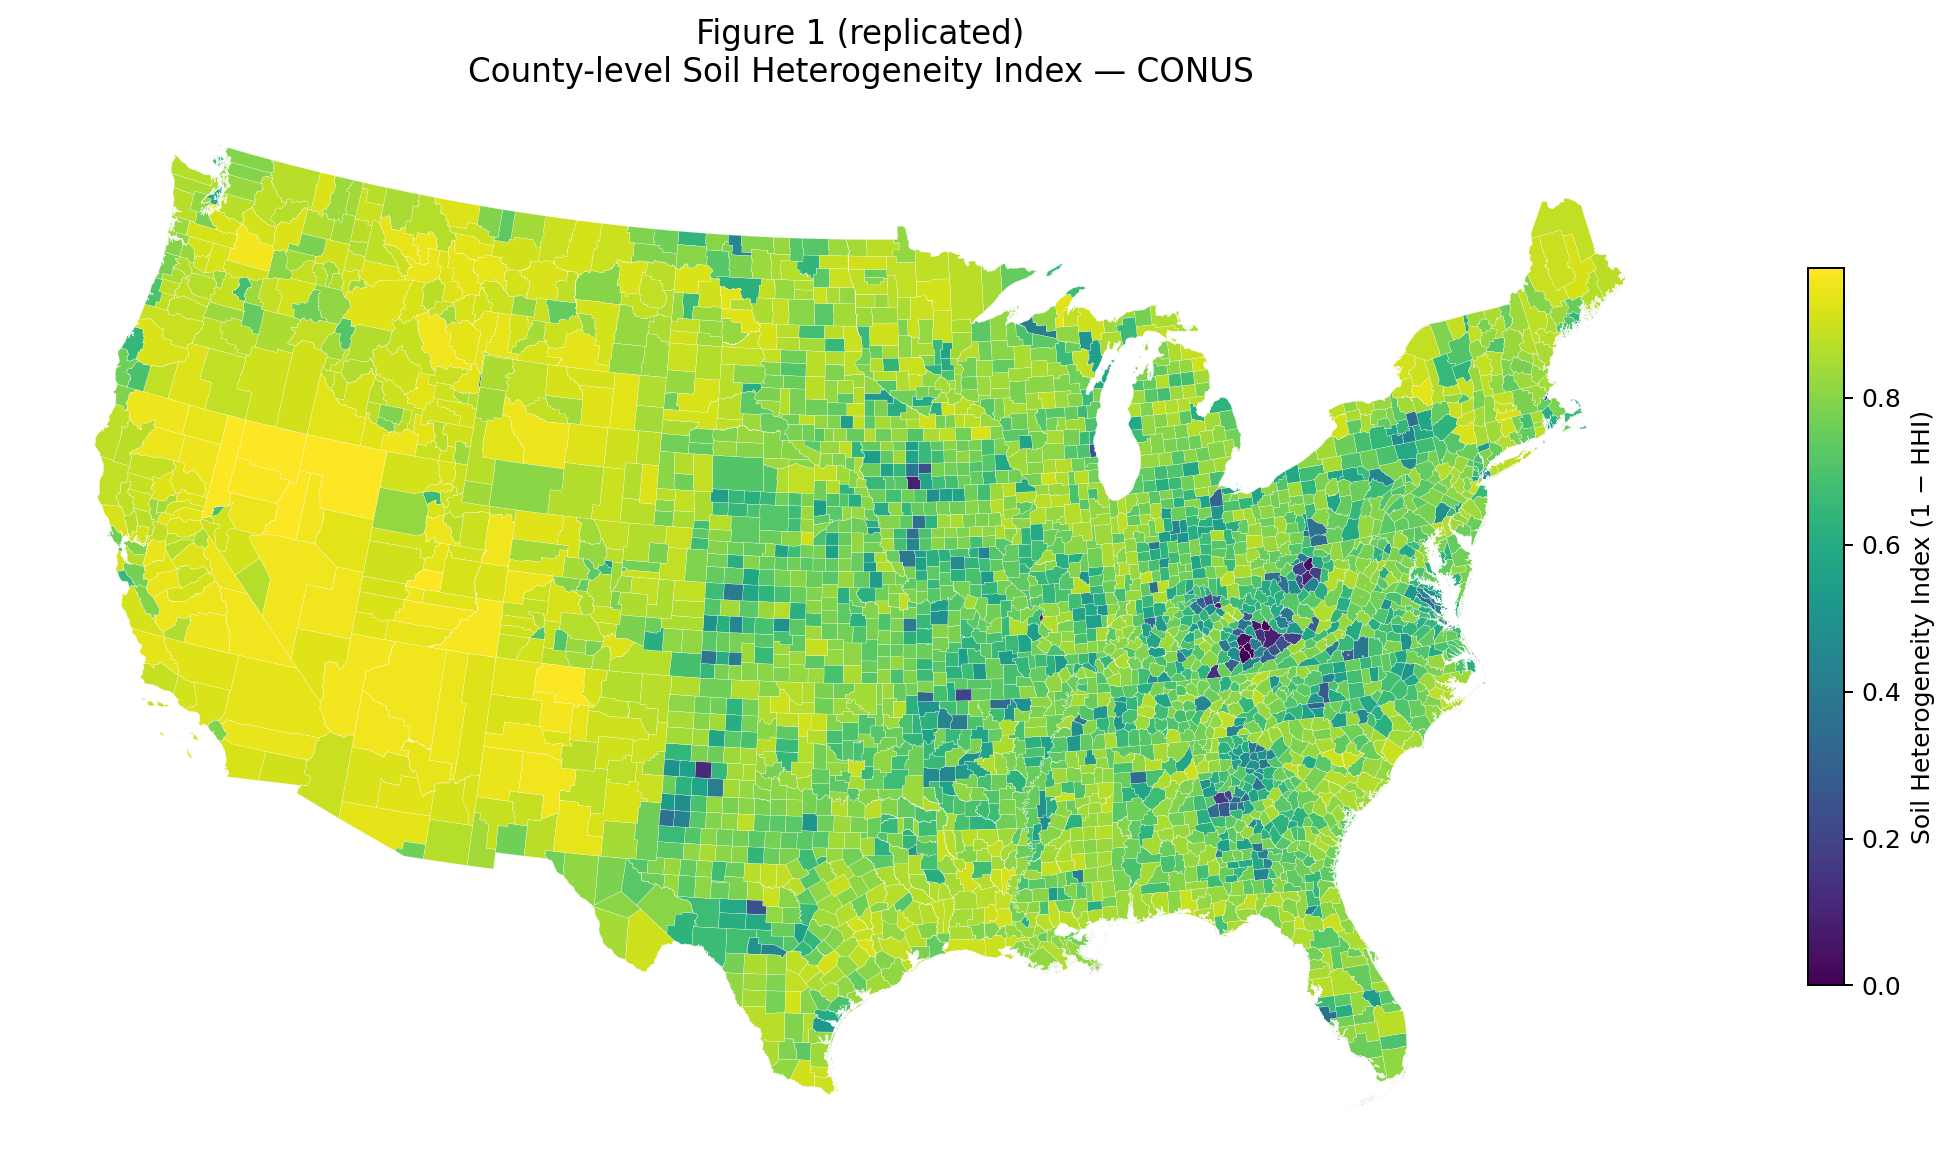
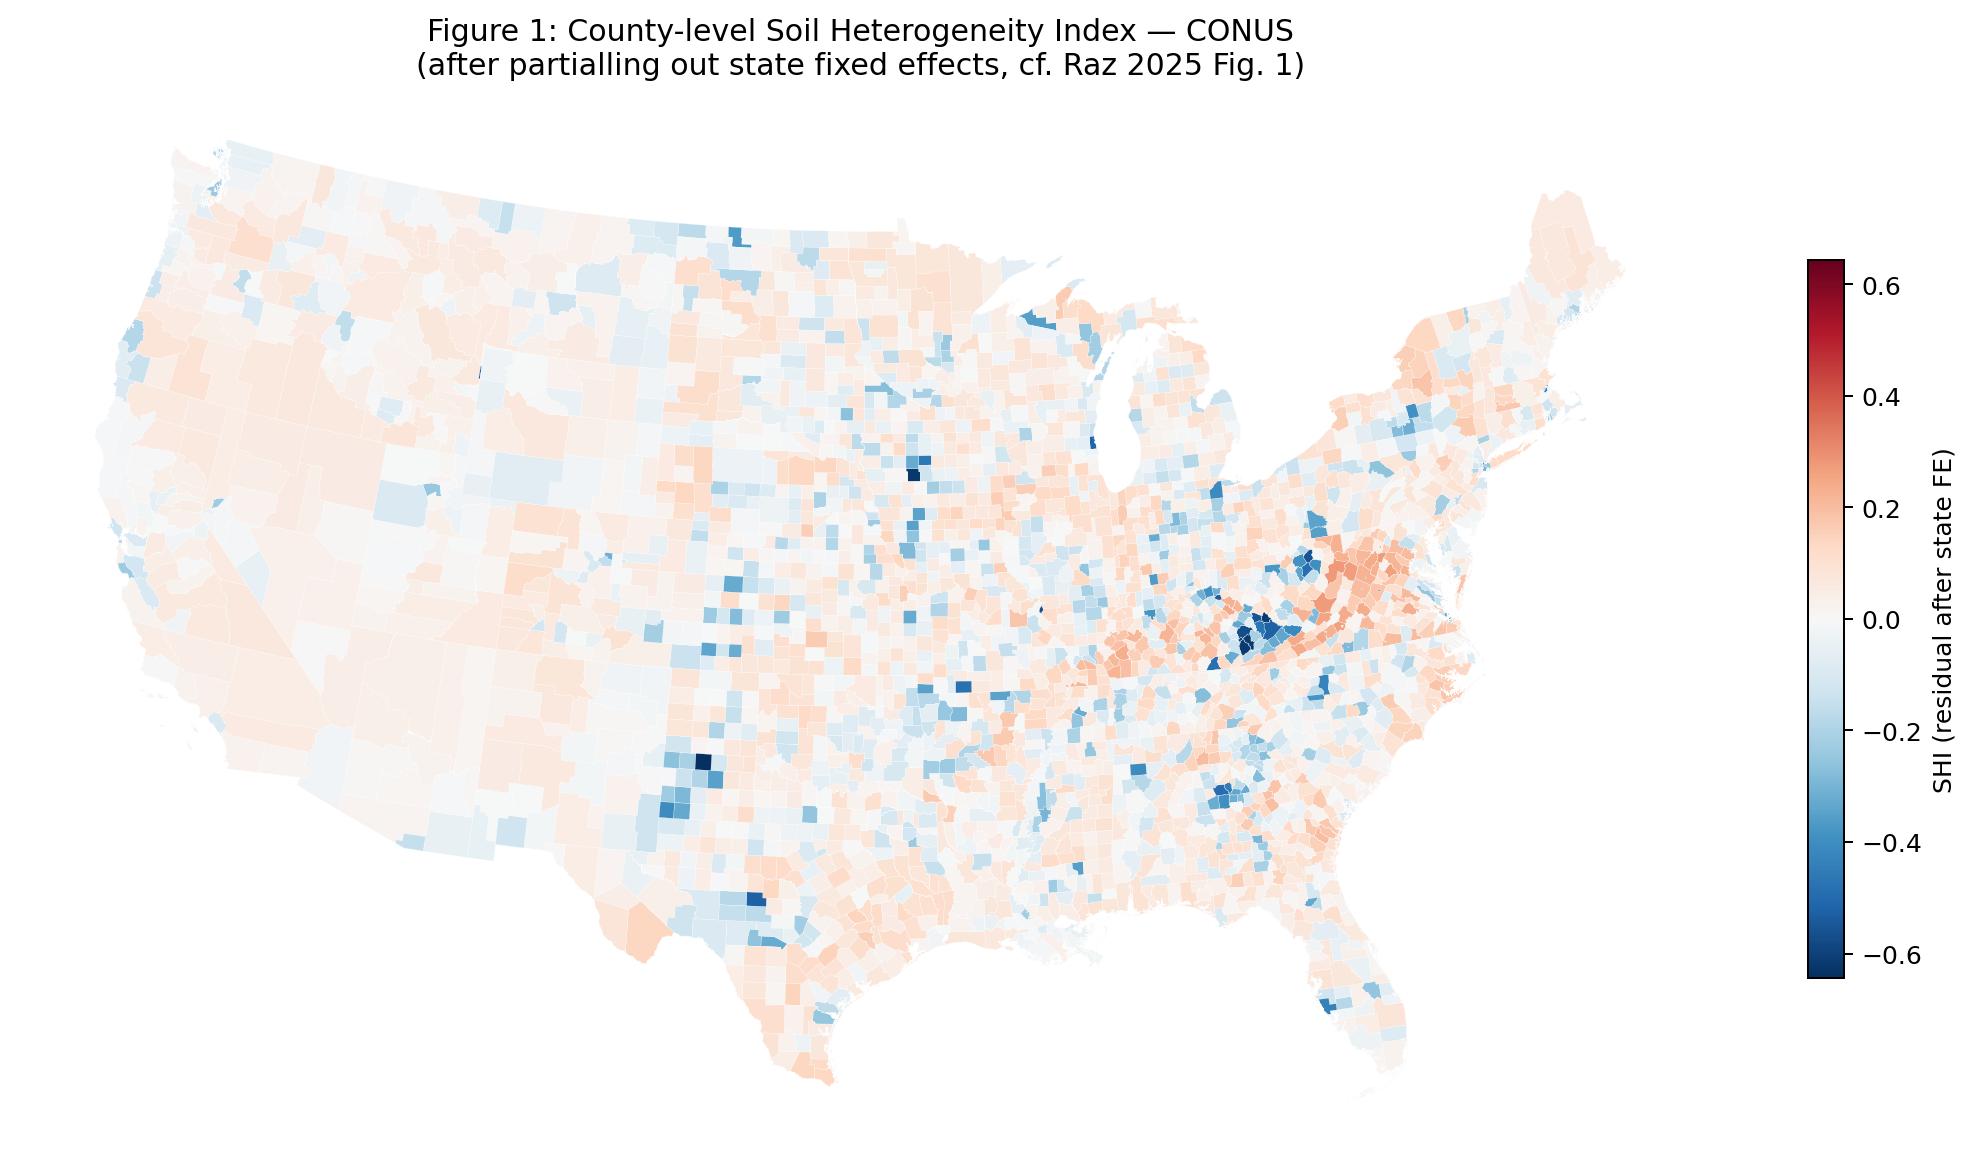
Address Jiayi's review: residualize Fig 1 on state FE, use exact Table 2 values
- Figure 1 now plots SHI residualised on state fixed effects to match the
  paper's main Figure 1 (Raz 2025, p.8, fn.5). The raw SHI map is kept as
  figureA1_shi_raw_map.png (paper Appendix Figure A.1 analog).
- README Table 2 comparison now uses the exact coefficients and standard
  errors from Raz (2025) Table 2 (p.39), not the rounded text values.

diff --git a/analysis/04_figures.py b/analysis/04_figures.py
@@ -1,6 +1,8 @@
 """Figures 1, 2, 3 for Raz (2025) replication.
 
-Figure 1: County-level SHI map (CONUS).
+Figure 1: County-level SHI map after partialling out state fixed effects
+          (matches paper main Figure 1, p.8). Raw SHI is also saved as
+          figureA1_shi_raw_map.png (matches paper Appendix Figure A.1).
 Figure 2: County-level LNI map 1940 (requires IPUMS-derived LNI column).
 Figure 3: DiD event study β_b (requires linked MigrantsNative_2.csv).
 
@@ -21,9 +23,17 @@ from _common import FIGS, load_panel
 def fig1_shi_map() -> None:
     import geopandas as gpd
     panel = load_panel()
-    shi = panel[["gisjoin", "shi"]].drop_duplicates("gisjoin")
+    shi = (
+        panel[["gisjoin", "state", "shi"]]
+        .drop_duplicates("gisjoin")
+        .dropna(subset=["shi", "state"])
+    )
 
-    # Look for the county parquet cache one directory up from delivery
+    # Residualise SHI on state fixed effects to match paper's main Figure 1
+    # (p.8, fn.5: the underlying soil surveys tend to vary by state).
+    state_means = shi.groupby("state")["shi"].transform("mean")
+    shi["shi_resid"] = shi["shi"] - state_means
+
     cand = [
         Path(
             "/Users/ab180/Desktop/Coursework/Semester2/BZD6004/Group/final/"
@@ -39,19 +49,46 @@ def fig1_shi_map() -> None:
     gdf = county.merge(shi, left_on="GISJOIN", right_on="gisjoin", how="left")
     gdf = gdf.cx[-2.5e6:2.5e6, -2e6:3.5e6]
 
+    vmax = float(np.nanmax(np.abs(gdf["shi_resid"].to_numpy())))
     fig, ax = plt.subplots(figsize=(12, 7))
     gdf.plot(
-        column="shi", cmap="viridis", linewidth=0.1,
-        edgecolor="white", legend=True,
-        legend_kwds={"label": "Soil Heterogeneity Index (1 − HHI)", "shrink": 0.6},
+        column="shi_resid", cmap="RdBu_r", vmin=-vmax, vmax=vmax,
+        linewidth=0.1, edgecolor="white", legend=True,
+        legend_kwds={
+            "label": "SHI (residual after state FE)",
+            "shrink": 0.6,
+        },
         ax=ax, missing_kwds={"color": "#eeeeee"},
     )
-    ax.set_title("Figure 1: County-level Soil Heterogeneity Index — CONUS", fontsize=13)
+    ax.set_title(
+        "Figure 1: County-level Soil Heterogeneity Index — CONUS\n"
+        "(after partialling out state fixed effects, cf. Raz 2025 Fig. 1)",
+        fontsize=12,
+    )
     ax.set_axis_off()
     fig.tight_layout()
     fig.savefig(FIGS / "figure1_shi_map.png", dpi=180, bbox_inches="tight")
     plt.close(fig)
-    print("  saved figure1_shi_map.png")
+    print("  saved figure1_shi_map.png (residualized)")
+
+    # Also save the raw SHI as the analog of paper Appendix Figure A.1.
+    fig, ax = plt.subplots(figsize=(12, 7))
+    gdf.plot(
+        column="shi", cmap="viridis", linewidth=0.1,
+        edgecolor="white", legend=True,
+        legend_kwds={"label": "Soil Heterogeneity Index (raw, 1 − HHI)",
+                     "shrink": 0.6},
+        ax=ax, missing_kwds={"color": "#eeeeee"},
+    )
+    ax.set_title(
+        "Figure A.1: County-level Soil Heterogeneity Index — CONUS (raw)",
+        fontsize=13,
+    )
+    ax.set_axis_off()
+    fig.tight_layout()
+    fig.savefig(FIGS / "figureA1_shi_raw_map.png", dpi=180, bbox_inches="tight")
+    plt.close(fig)
+    print("  saved figureA1_shi_raw_map.png (raw)")
 
 
 def fig2_lni_map() -> None:

diff --git a/README.md b/README.md
@@ -14,7 +14,9 @@ Built for NUS BZD6004 Applied Econometrics II (Sem 2, 2025-2026).
 
 ![SHI Map](figures/figure1_shi_map.png)
 
-*Darker = more homogeneous soil; brighter = more heterogeneous. Source: STATSGO2 soil polygons overlaid onto 1940 county boundaries.*
+*SHI after partialling out state fixed effects — the version used in the paper's main Figure 1 (Raz 2025, p.8, fn.5). Blue = relatively homogeneous within its state; red = relatively heterogeneous. The raw (unresidualised) SHI map is saved as `figures/figureA1_shi_raw_map.png` and corresponds to the paper's Appendix Figure A.1.*
+
+*Source: STATSGO2 soil polygons overlaid onto 1940 county boundaries.*
 
 ### SHI vs. Fertilizer adoption (1920)
 
@@ -128,12 +130,14 @@ All joins are left joins — if a variable is unavailable for a particular count
 
 ### Table 2 — Main result: does soil heterogeneity weaken communal identity?
 
-| Spec | Our estimate (1% sample) | Paper (full count) |
+| Spec | Our estimate (1% sample) | Paper Table 2 (full count) |
 |---|---|---|
-| (1) No controls | +14.42*** | −4.52*** |
-| (2) + State×year FE | **−0.84** | −5.51*** |
-| (3) + Geo-climatic | **−0.65** | −2.91*** |
-| **(4) Preferred** | **−0.81** | **−2.49*** |
+| (1) No controls | +14.42*** | −4.524*** (1.342) |
+| (2) + State×year FE | **−0.84** | −5.511*** (0.893) |
+| (3) + Geo-climatic | **−0.65** | −2.914*** (0.731) |
+| **(4) Preferred** | **−0.81** | **−2.486*** (0.725)** |
+
+Paper values are taken directly from Raz (2025), Table 2 (p.39); standard errors clustered at arbitrary 100-mile grid cells in parentheses.
 
 Our preferred estimate is **negative**, matching the paper's direction. The smaller magnitude and lack of statistical significance are expected: our 1% sample introduces measurement error in the LNI, which attenuates the coefficient toward zero (classical attenuation bias).
 
